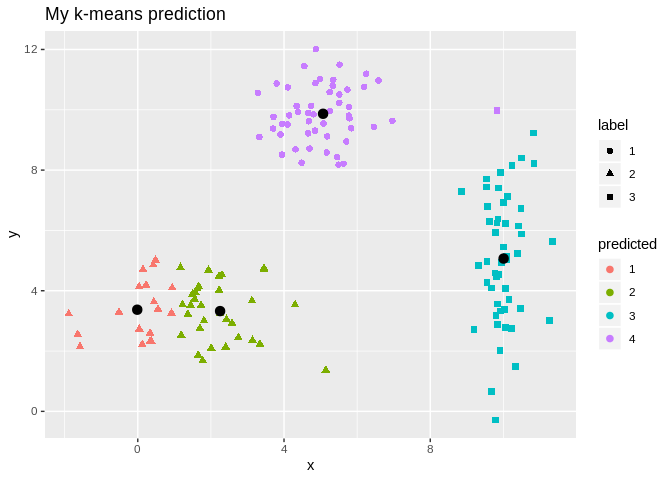
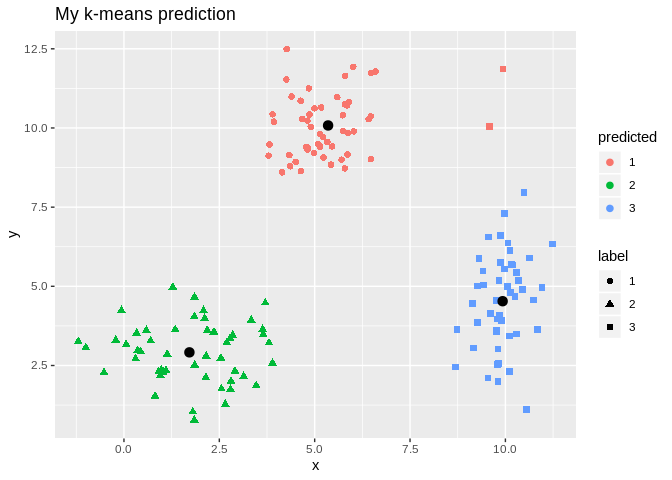
Add files via upload

diff --git a/projects/kmeans_intro/index.md b/projects/kmeans_intro/index.md
@@ -1,8 +1,3 @@
----
-layout: projects
-
----
-
 **Introduction to K-Means Clustering**
 ======================================
 
@@ -124,10 +119,10 @@ Since this is an iterative approach, we can visualize the progress at every iter
 
 ``` r
 library(gganimate)
-prediction <- my_kmeans(no_labs, 4)
+prediction <- my_kmeans(no_labs, 3)
 ```
 
-    ## Took 8 iterations to converge!
+    ## Took 2 iterations to converge!
 
 ``` r
 Z_hist <- cbind(combined, prediction[[3]])
@@ -145,10 +140,8 @@ animate(g, nframes=  length(unique(Z_hist$iteration)), fps = 1)
 ![](images/unnamed-chunk-6-1.gif)
 
 ``` r
-anim_save('clustering1.gif')
+#anim_save('clustering1.gif')
 ```
-
-![Alt Text]('clustering1.gif')
 
 Final Result:
 
